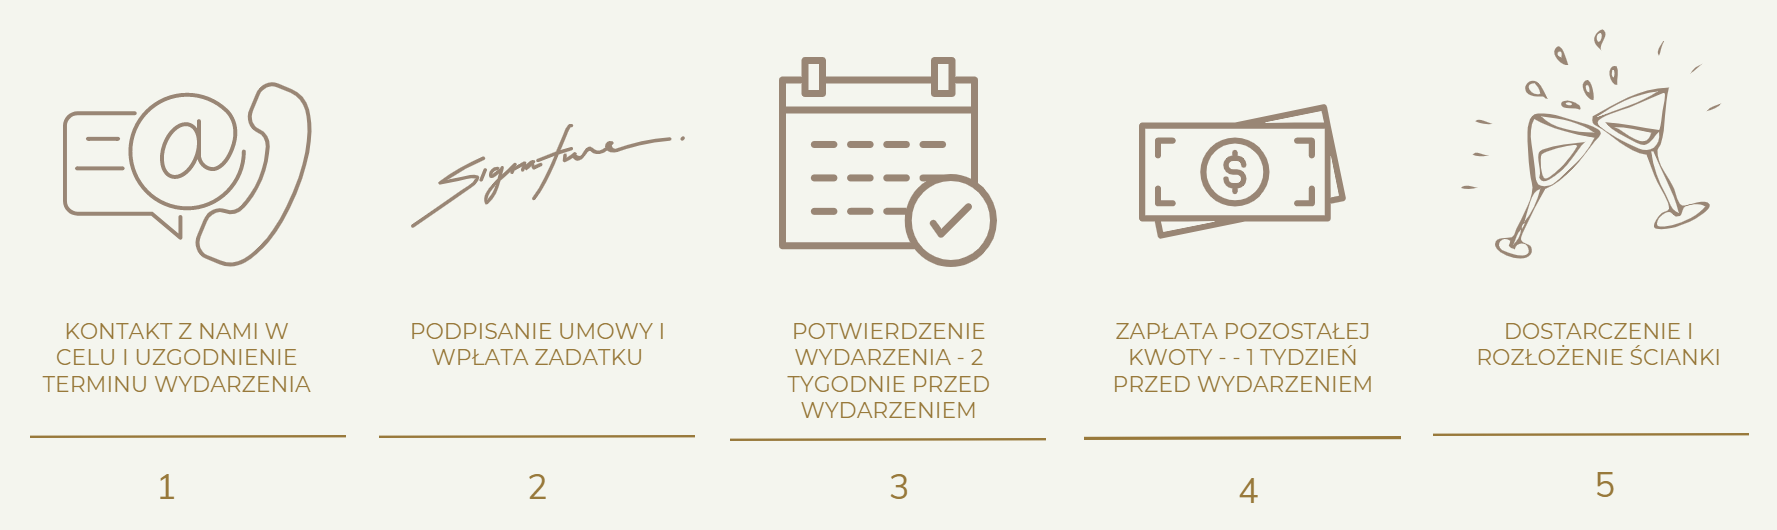
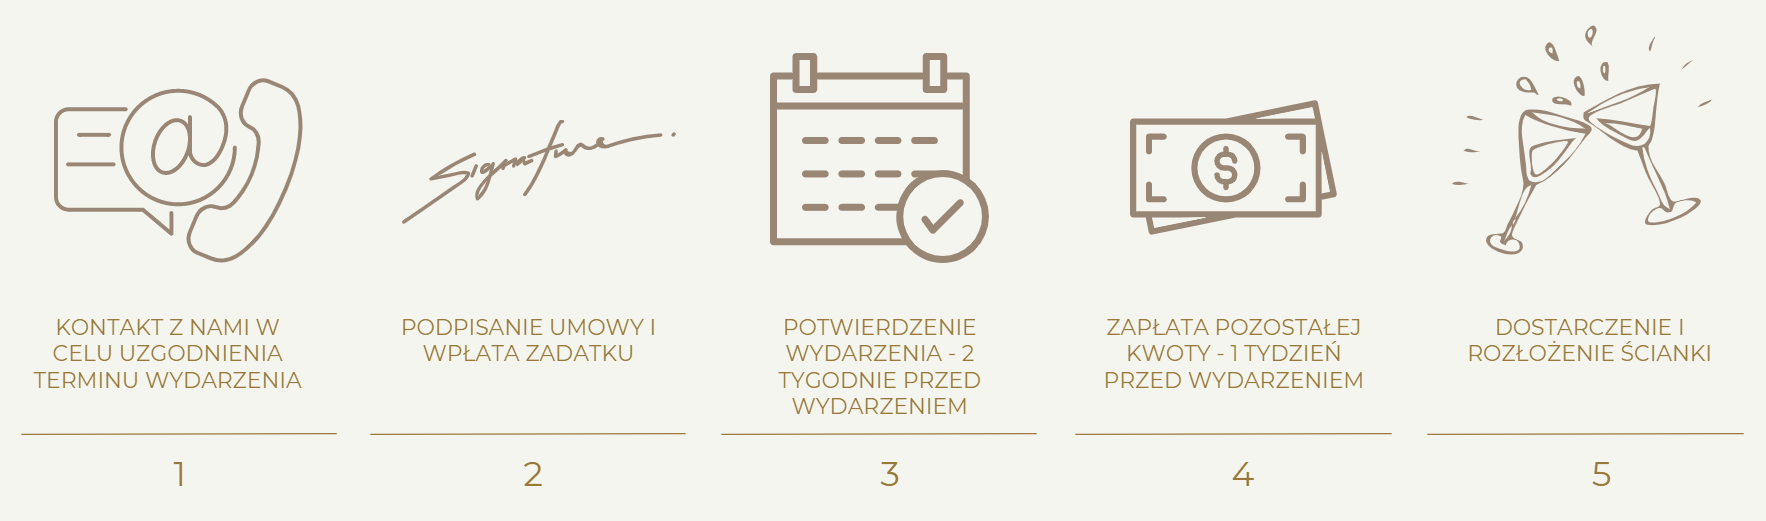
added changes in index.html

diff --git a/styles.css b/styles.css
@@ -279,7 +279,7 @@
 }
 
 .jak-pracujemy-img {
-    height: 331px;
+    height: 327px;
     width: 1110px;
 }
 
